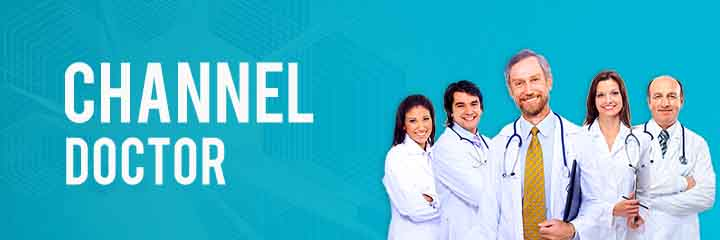
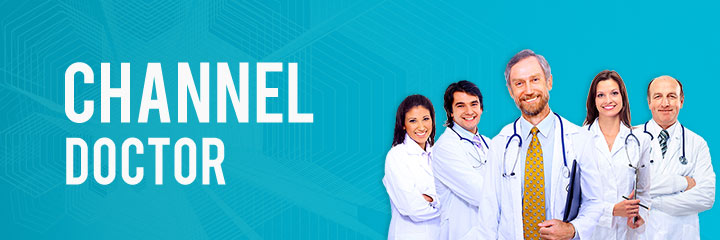
latest ios build commit

diff --git a/www/templates/tab-welcome.html b/www/templates/tab-welcome.html
@@ -1,29 +1,29 @@
 
 <ion-view view-title="Welcome">
   <ion-content class="padding">
-<div><img src="../img/top.png"  class="res-img"></div>
+<div><img src="img/top.jpg"  class="res-img"></div>
   <div class="wel-border">
     <div class="row">
         <div class="col col-50"><a class="item" ui-sref="channel">
-          <div><img  class="centered" width="75" src="../img/1.png"></div>
+          <div><img  class="centered" width="75" src="img/1.png"></div>
 		  <div class="text-center">Doctors</div>
 		</a>
         </div>
 		<div class="col col-50"><a class="item" ui-sref="clinics">
-          <div><img  class="centered" width="75" src="../img/3.png"></div>
+          <div><img  class="centered" width="75" src="img/3.png"></div>
 		  <div class="text-center">Clinics</div>
 		  </a>
         </div>
      </div>
 	<div class="row">
 		<div class="col col-50"><a class="item" ui-sref="mystatus">
-          <div><img  class="centered" width="75" src="../img/2.png"></div>
+          <div><img  class="centered" width="75" src="img/2.png"></div>
 		  <div class="text-center">Status</div>
 		  </a>
         </div>
          
 		 <div class="col col-50"><a class="item" ui-sref="myprofile">
-          <div><img  class="centered" width="75" src="../img/4.png"></div>
+          <div><img  class="centered" width="75" src="img/4.png"></div>
 		 <div class="text-center">My Profile</div>
 		  </a>
         </div>

diff --git a/www/lib/ionic/css/ionic.css b/www/lib/ionic/css/ionic.css
@@ -2341,7 +2341,7 @@ a.subdued {
     .bar.bar-stable.bar-footer {
       background-image: linear-gradient(180deg, #b2b2b2, #b2b2b2 50%, transparent 50%); }
   .bar.bar-positive {
-	background:url(top.png);
+	background:#017790;
    /* border-color: #0c63ee;
     background-color: #387ef5;
     background-image: linear-gradient(0deg, #0c63ee, #0c63ee 50%, transparent 50%); */
